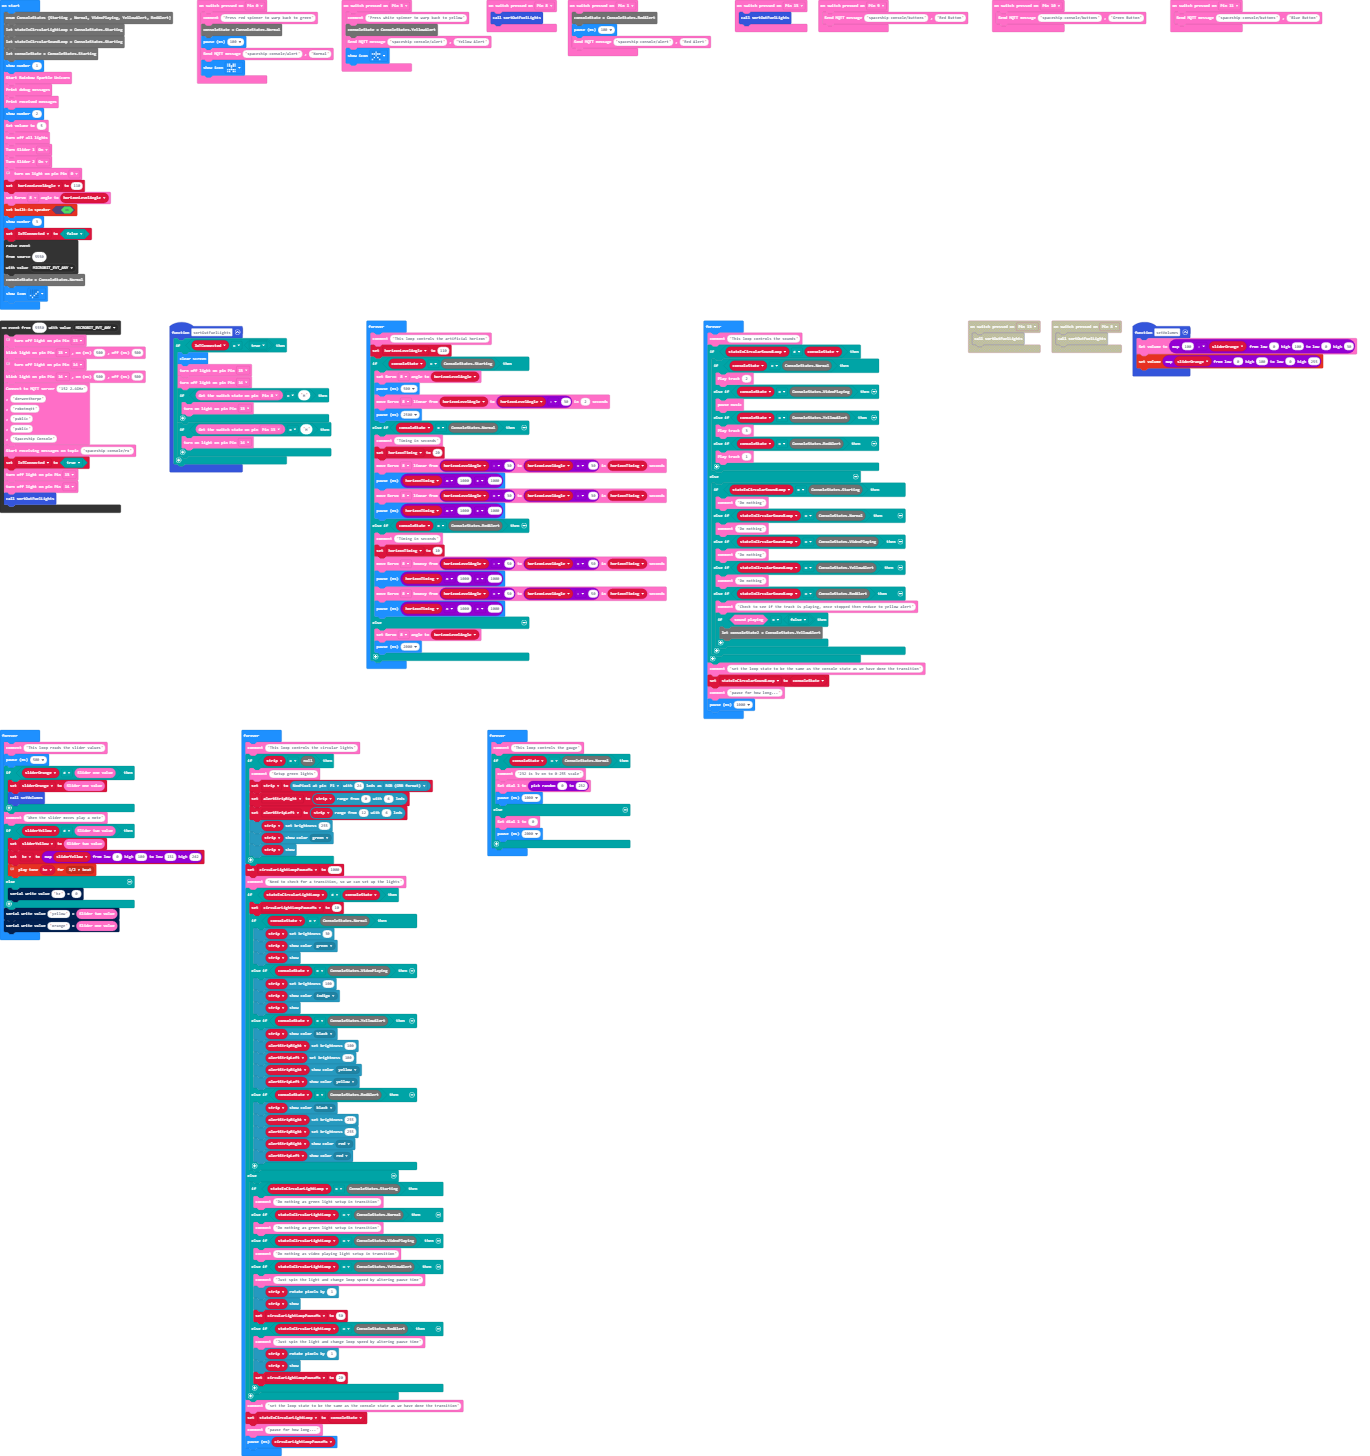
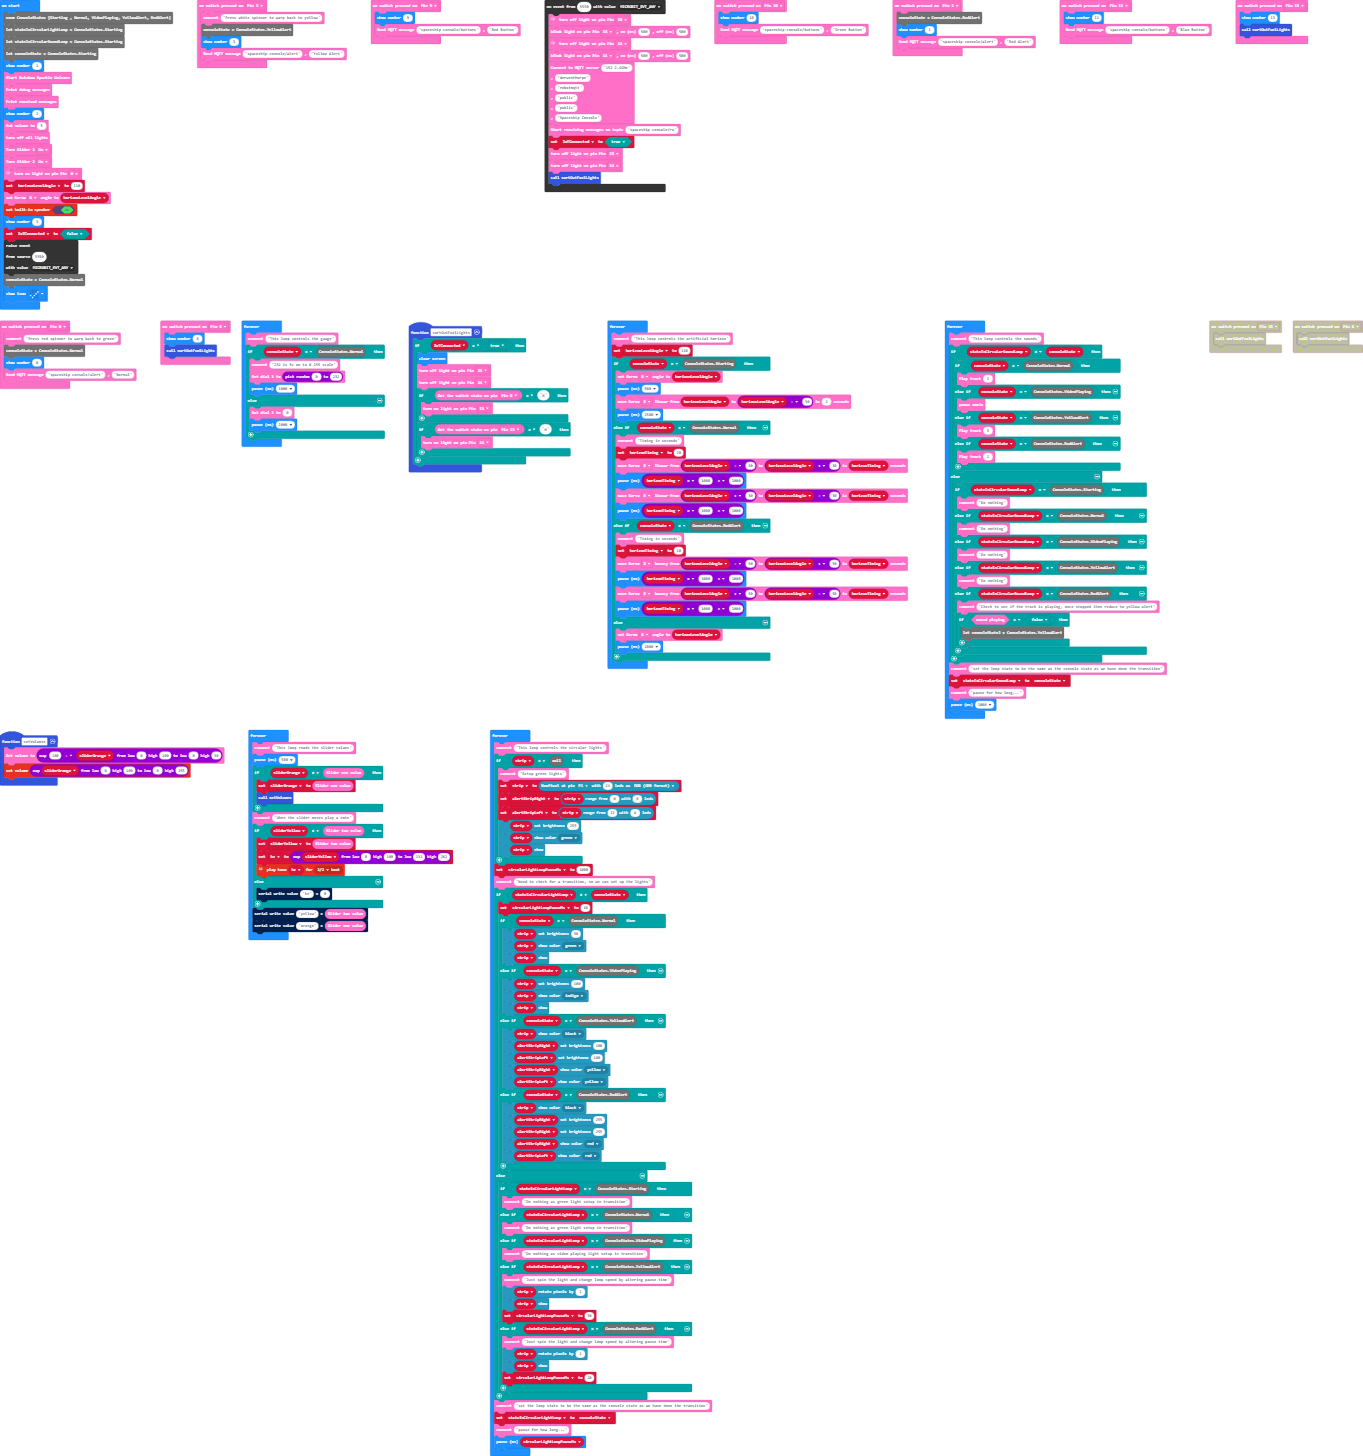
Update pxt.json, main.blocks, main.ts

diff --git a/main.ts b/main.ts
@@ -5,10 +5,11 @@ function setVolumes () {
 RainbowSparkleUnicorn.Switch.onSwitchPressed(switchPins.P3, function () {
     RainbowSparkleUnicorn.comment("Press white spinner to warp back to yellow")
     consoleState = ConsoleStates.YellowAlert
-RainbowSparkleUnicorn.IoT.sendMQTTMessage("spaceship-console/alert", "Yellow Alert")
-    basic.showIcon(IconNames.StickFigure)
+basic.showNumber(3)
+    RainbowSparkleUnicorn.IoT.sendMQTTMessage("spaceship-console/alert", "Yellow Alert")
 })
 RainbowSparkleUnicorn.Switch.onSwitchPressed(switchPins.P9, function () {
+    basic.showNumber(9)
     RainbowSparkleUnicorn.IoT.sendMQTTMessage("spaceship-console/buttons", "Red Button")
 })
 control.onEvent(5550, EventBusValue.MICROBIT_EVT_ANY, function () {
@@ -33,17 +34,20 @@ control.onEvent(5550, EventBusValue.MICROBIT_EVT_ANY, function () {
     sortOutFuelLights()
 })
 RainbowSparkleUnicorn.Switch.onSwitchPressed(switchPins.P10, function () {
+    basic.showNumber(10)
     RainbowSparkleUnicorn.IoT.sendMQTTMessage("spaceship-console/buttons", "Green Button")
 })
 RainbowSparkleUnicorn.Switch.onSwitchPressed(switchPins.P1, function () {
     consoleState = ConsoleStates.RedAlert
-basic.pause(100)
+basic.showNumber(1)
     RainbowSparkleUnicorn.IoT.sendMQTTMessage("spaceship-console/alert", "Red Alert")
 })
 RainbowSparkleUnicorn.Switch.onSwitchPressed(switchPins.P11, function () {
+    basic.showNumber(11)
     RainbowSparkleUnicorn.IoT.sendMQTTMessage("spaceship-console/buttons", "Blue Button")
 })
 RainbowSparkleUnicorn.Switch.onSwitchPressed(switchPins.P13, function () {
+    basic.showNumber(13)
     sortOutFuelLights()
 })
 function sortOutFuelLights () {
@@ -62,11 +66,11 @@ function sortOutFuelLights () {
 RainbowSparkleUnicorn.Switch.onSwitchPressed(switchPins.P0, function () {
     RainbowSparkleUnicorn.comment("Press red spinner to warp back to green")
     consoleState = ConsoleStates.Normal
-basic.pause(100)
+basic.showNumber(0)
     RainbowSparkleUnicorn.IoT.sendMQTTMessage("spaceship-console/alert", "Normal")
-    basic.showIcon(IconNames.Butterfly)
 })
 RainbowSparkleUnicorn.Switch.onSwitchPressed(switchPins.P8, function () {
+    basic.showNumber(8)
     sortOutFuelLights()
 })
 let circularLightLoopPauseMs = 0
@@ -104,6 +108,17 @@ EventBusValue.MICROBIT_EVT_ANY
 )
 consoleState = ConsoleStates.Normal
 basic.showIcon(IconNames.Yes)
+basic.forever(function () {
+    RainbowSparkleUnicorn.comment("This loop controls the gauge")
+    if (consoleState == ConsoleStates.Normal) {
+        RainbowSparkleUnicorn.comment("232 is 3v on to 0-255 scale")
+        RainbowSparkleUnicorn.Controls.dial1(randint(0, 232))
+        basic.pause(1000)
+    } else {
+        RainbowSparkleUnicorn.Controls.dial1(0)
+        basic.pause(2000)
+    }
+})
 basic.forever(function () {
     RainbowSparkleUnicorn.comment("This loop controls the artificial horizon")
     horizonLevelAngle = 110
@@ -244,15 +259,4 @@ basic.forever(function () {
     stateInCircularLightLoop = consoleState
     RainbowSparkleUnicorn.comment("pause for how long...")
     basic.pause(circularLightLoopPauseMs)
-})
-basic.forever(function () {
-    RainbowSparkleUnicorn.comment("This loop controls the gauge")
-    if (consoleState == ConsoleStates.Normal) {
-        RainbowSparkleUnicorn.comment("232 is 3v on to 0-255 scale")
-        RainbowSparkleUnicorn.Controls.dial1(randint(0, 232))
-        basic.pause(1000)
-    } else {
-        RainbowSparkleUnicorn.Controls.dial1(0)
-        basic.pause(2000)
-    }
 })
